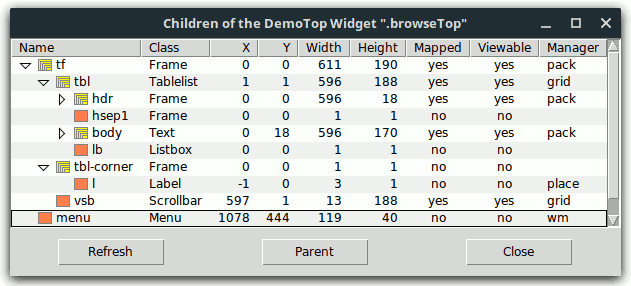
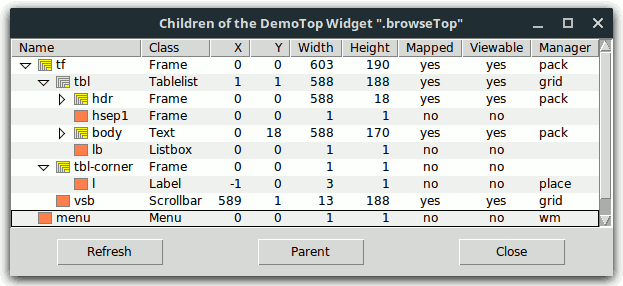
* doc/browseTree.png: Updated. 	* doc/tablelist.html:

diff --git a/modules/tablelist/doc/tablelist.html b/modules/tablelist/doc/tablelist.html
@@ -1009,7 +1009,7 @@ demo::displayChildren .
   <code>browseTree.tcl</code> is a multi-column tree widget:</p>
 
   <blockquote>
-    <img src="browseTree.png" alt="Widget Browser" width="631" height="286">
+    <img src="browseTree.png" alt="Widget Browser" width="623" height="286">
   </blockquote>
 
   <p>The <code>demo::displayChildren</code> command inserts some data of the
